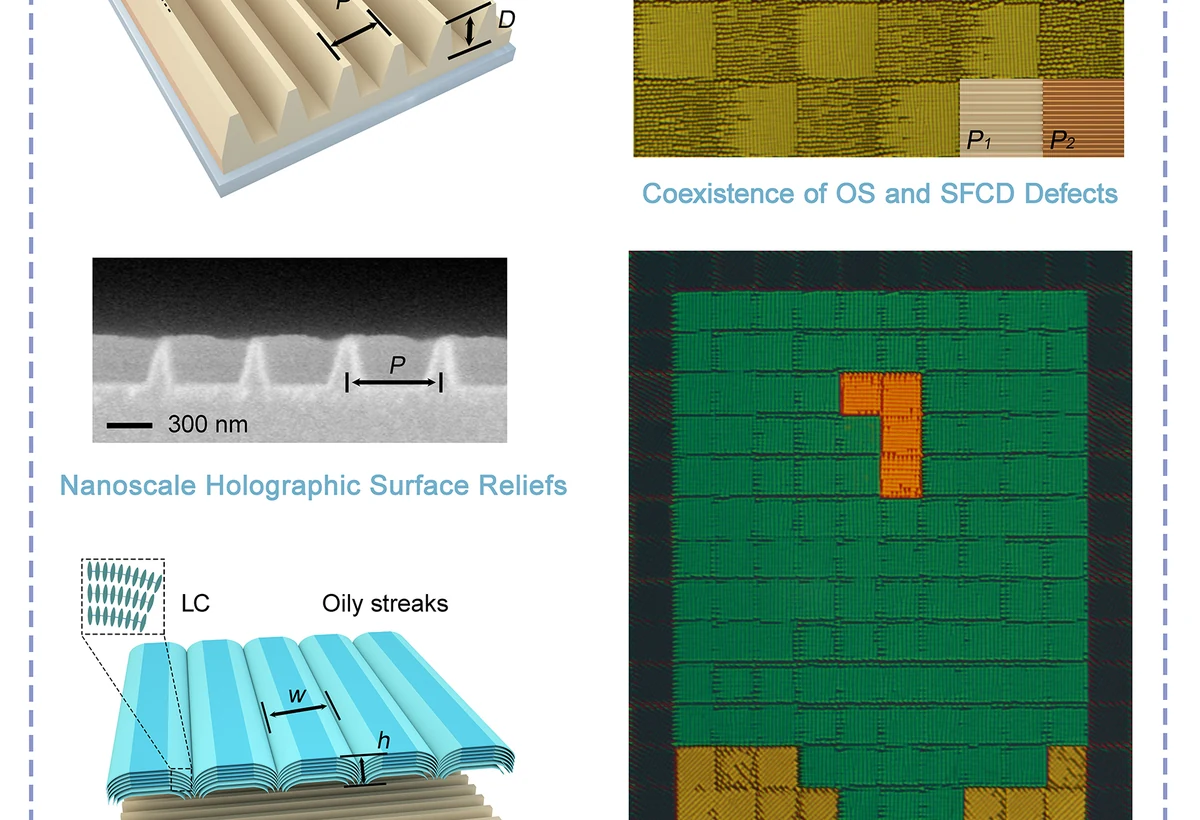
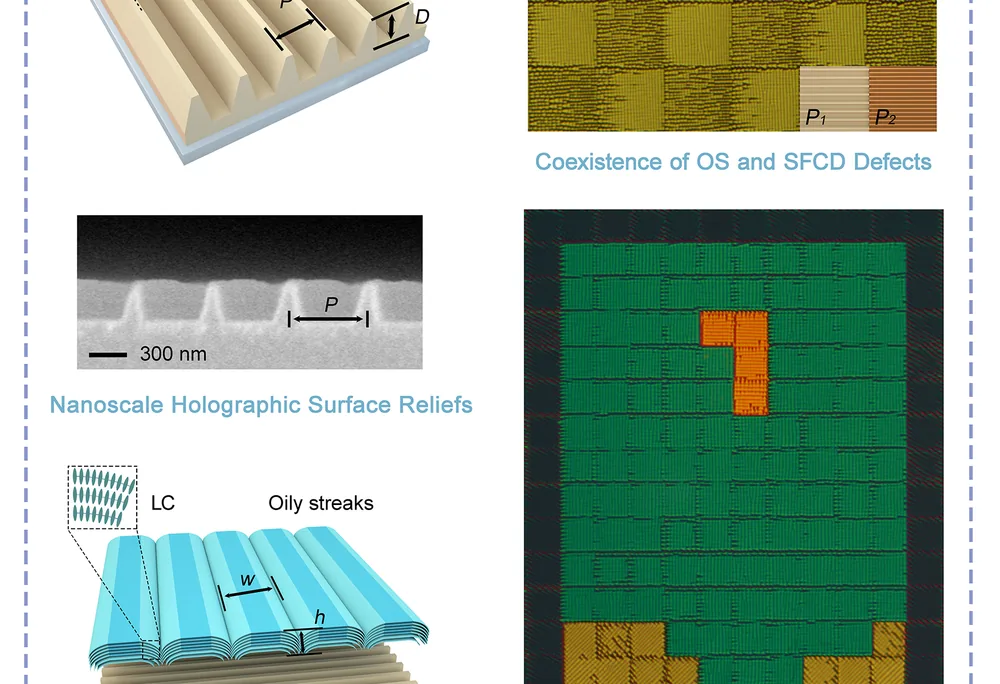
Optimize homepage research images

diff --git a/_pages/about.md b/_pages/about.md
@@ -96,7 +96,7 @@ redirect_from:
     <div class="feature-grid">
       <article class="feature-card feature-card--wide">
         <a class="feature-card__image" href="https://doi.org/10.1002/adma.202507000" aria-label="Read the Advanced Materials paper">
-          <img src="/images/research/featured-thermo.webp" alt="Diagram of a cholesteric heliconical architecture changing reflection wavelength with temperature and electric field" loading="lazy" width="1200" height="820">
+          <img src="/images/research/featured-thermo.webp" alt="Diagram of a cholesteric heliconical architecture changing reflection wavelength with temperature and electric field" loading="lazy" width="1000" height="684">
         </a>
         <div class="feature-card__body">
           <p><span>Advanced Materials · 2025</span><b>co-first author</b></p>
@@ -108,7 +108,7 @@ redirect_from:
 
       <article class="feature-card">
         <a class="feature-card__image" href="https://doi.org/10.1016/j.matt.2023.07.027" aria-label="Read the Matter paper">
-          <img src="/images/research/featured-stability.webp" alt="Optical device concept and multicolor polarization-responsive patterns from a stable cholesteric heliconical architecture" loading="lazy" width="1200" height="820">
+          <img src="/images/research/featured-stability.webp" alt="Optical device concept and multicolor polarization-responsive patterns from a stable cholesteric heliconical architecture" loading="lazy" width="1000" height="684">
         </a>
         <div class="feature-card__body">
           <p><span>Matter · 2023</span><b>co-first author</b></p>
@@ -120,7 +120,7 @@ redirect_from:
 
       <article class="feature-card">
         <a class="feature-card__image" href="https://doi.org/10.1002/adom.202500233" aria-label="Read the Advanced Optical Materials paper">
-          <img src="/images/research/featured-defects.webp" alt="Programmed smectic defect patterns, nanoscale surface reliefs, and a multicolor T-shaped optical pattern" loading="lazy" width="1200" height="820">
+          <img src="/images/research/featured-defects.webp" alt="Programmed smectic defect patterns, nanoscale surface reliefs, and a multicolor T-shaped optical pattern" loading="lazy" width="1000" height="684">
         </a>
         <div class="feature-card__body">
           <p><span>Advanced Optical Materials · 2025</span><b>corresponding author</b></p>
